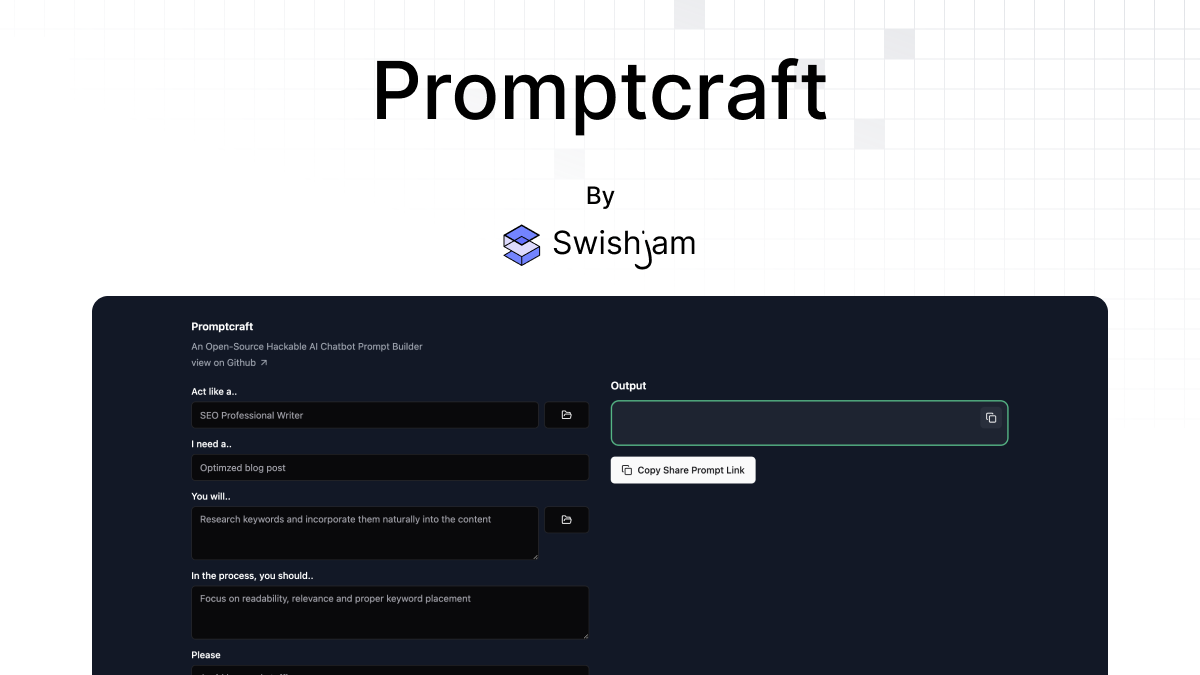
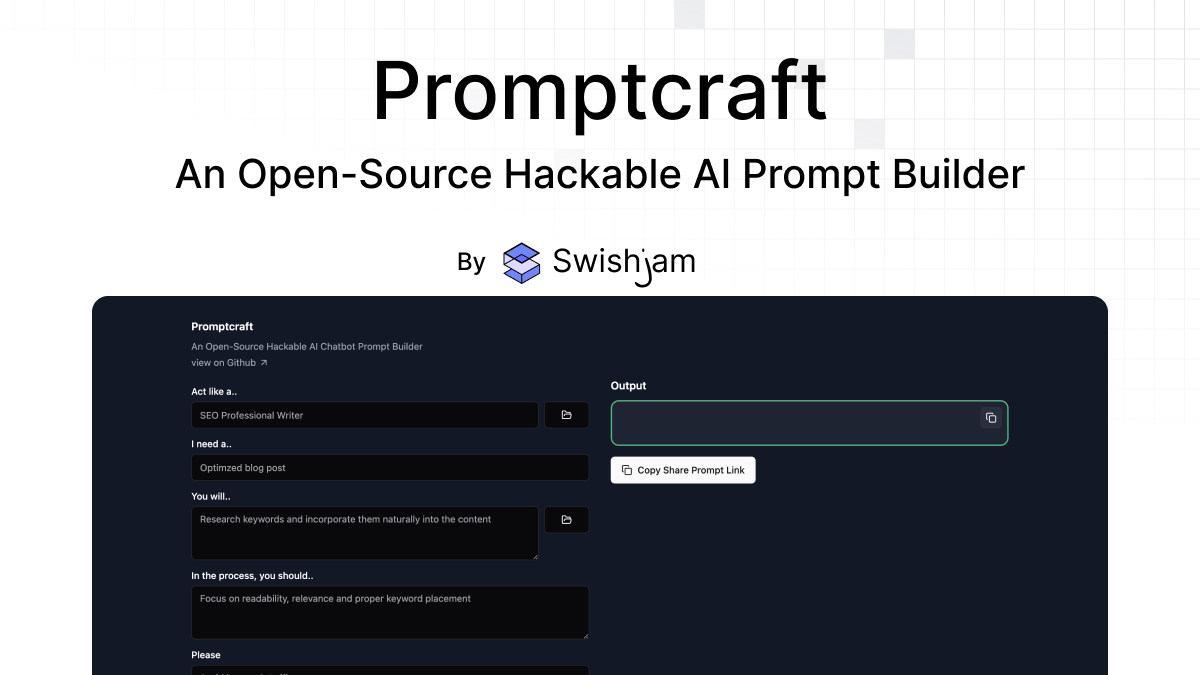
Added MIT license, updated the readme

Changed region(s): [[0.1233, 0.2178, 0.8633, 0.3111], [0.37, 0.3422, 0.5858, 0.4356]]

diff --git a/src/app/layout.js b/src/app/layout.js
@@ -19,6 +19,8 @@ export default function RootLayout({ children }) {
         <head>
           <meta name="theme-color" content="#2e5e38" />
           <meta name="robots" content="noindex" />
+          <meta property="og:image" content='/og-x-fb.png' key="og:image" />
+          <meta name="twitter:image" content='/og-x-fb.png' />
         </head>
         <body className="bg-gray-900">{children}</body>
         <Toaster richColors position="top-right"/>

diff --git a/README.md b/README.md
@@ -1,6 +1,40 @@
-This is a [Next.js](https://nextjs.org/) project bootstrapped with [`create-next-app`](https://github.com/vercel/next.js/tree/canary/packages/create-next-app).
+![Promptcraft](https://raw.githubusercontent.com/swishjam/promptcraft/master/public/og-x-fb.png)
+
+<div align="center">
+  <a href="https://promptcraft.swishjam.com">
+    <h1>✨ Promptcraft</h1>
+  </a>
+<div>
+
+<h3>
+  Promptcraft is an open source prompt builder 
+</h3>
+
+<a href="https://swishjam.com">
+  Built by the team @ Swishjam.com — The brain for your SaaS
+</a>
+
+</br>
+<img src="https://img.shields.io/badge/License-MIT-red.svg?style=flat-square" alt="MIT License">
+<a href="https://www.ycombinator.com/companies/langfuse"><img src="https://img.shields.io/badge/Y%20Combinator-W23-orange?style=flat-square" alt="Y Combinator W23"></a>
+
+
+## Technology Used
+- Next.js
+- Shadcn/ui
+- Sonner
+- React Hook Form 
+- Framer Motion
+- Radix
+- React Icons
+- Swishjam (Analytics)
 
 ## Getting Started
+
+First install all the dependencies
+```bash
+npm install 
+```
 
 First, run the development server:
 
